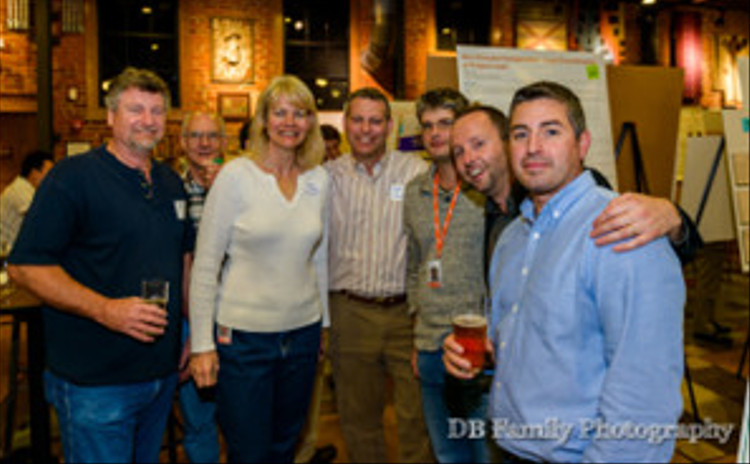
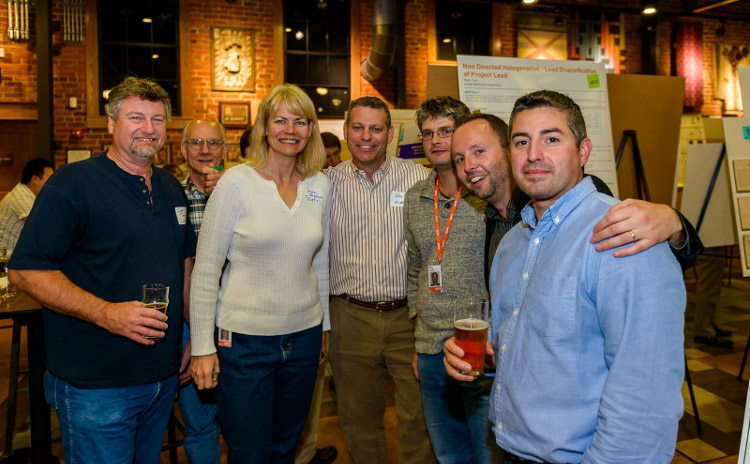
Added higher resolution scimix photos

diff --git a/index.html b/index.html
@@ -86,7 +86,7 @@ layout: page
       <h2>
 	<a href="{{ site.baseurl }}{{ newsletter.url }}">
 	  {{ newsletter.date | date: "%B %Y" }} Newsletter
-</a>
+	</a>
       </h2>
 
       <p>
@@ -96,19 +96,27 @@ layout: page
 
       <hr />
 
-    <h2>Ideas for Session Topics for 2015 Regional Meeting</h2>
-    <p>
-      The co-program chairs are soliciting suggestions for <strong>technical
-	session topics</strong> for the <strong>2015 Joint Great Lakes Central Regional
-	Meeting</strong> of the American Chemical Society to be held May 27 - May
-      30 in Grand Rapids. The overall theme of the meeting is "Chemistry
-      - A Grand Enterprise," and will focus on three main areas <em>Food</em>,
-      <em>Health</em>, and the <em>Environment</em>. <strong>Please submit any
-      and all ideas
-      <a href="https://docs.google.com/forms/d/1eyX-D50xt_0z9OwnIx0a587L4x9vq3p4tSqWuFcJvu0/viewform"
-	 title="Form for submitting session topics">
-	here</a>.</strong>
-    </p>
+      <h2>
+	Call for Volunteers:
+	<a href="/event/2014/10/11/chemistry-day-at-the-museum.html"
+	   title="Learn more about Chemistry Day at the Museum">
+	  Chemistry Day at the Museum</a>
+      </h2>
+
+      <p>
+	First call for volunteers for our 2015 National Chemistry Week (NCW)
+	outreach event at the Kalamazoo Valley Museum. We count on you to
+	volunteer your time and engaging disposition for its success again
+	this year!
+      </p>
+
+      <p>
+	<strong>
+	  To volunteer for the event please
+	  contact <a href="/people/hines.html">Lydia E. M. Hines</a>.
+	</strong>
+      </p>
+
 
     </div><!-- /.announcements -->
   </div>
@@ -137,6 +145,24 @@ layout: page
       </li>
     </ul>
     <p><a href="/awards/chemluminary-2014.html">Read more</a></p>
+  </div>
+
+  <hr />
+
+  <div class="newsblock">
+    <h2>Ideas for Session Topics for 2015 Regional Meeting</h2>
+    <p>
+      The co-program chairs are soliciting suggestions for <strong>technical
+	session topics</strong> for the <strong>2015 Joint Great Lakes Central Regional
+	Meeting</strong> of the American Chemical Society to be held May 27 - May
+      30 in Grand Rapids. The overall theme of the meeting is "Chemistry
+      - A Grand Enterprise," and will focus on three main areas <em>Food</em>,
+      <em>Health</em>, and the <em>Environment</em>. <strong>Please submit any
+      and all ideas
+      <a href="https://docs.google.com/forms/d/1eyX-D50xt_0z9OwnIx0a587L4x9vq3p4tSqWuFcJvu0/viewform"
+	 title="Form for submitting session topics">
+	here</a>.</strong>
+    </p>
   </div>
 
   <hr />
